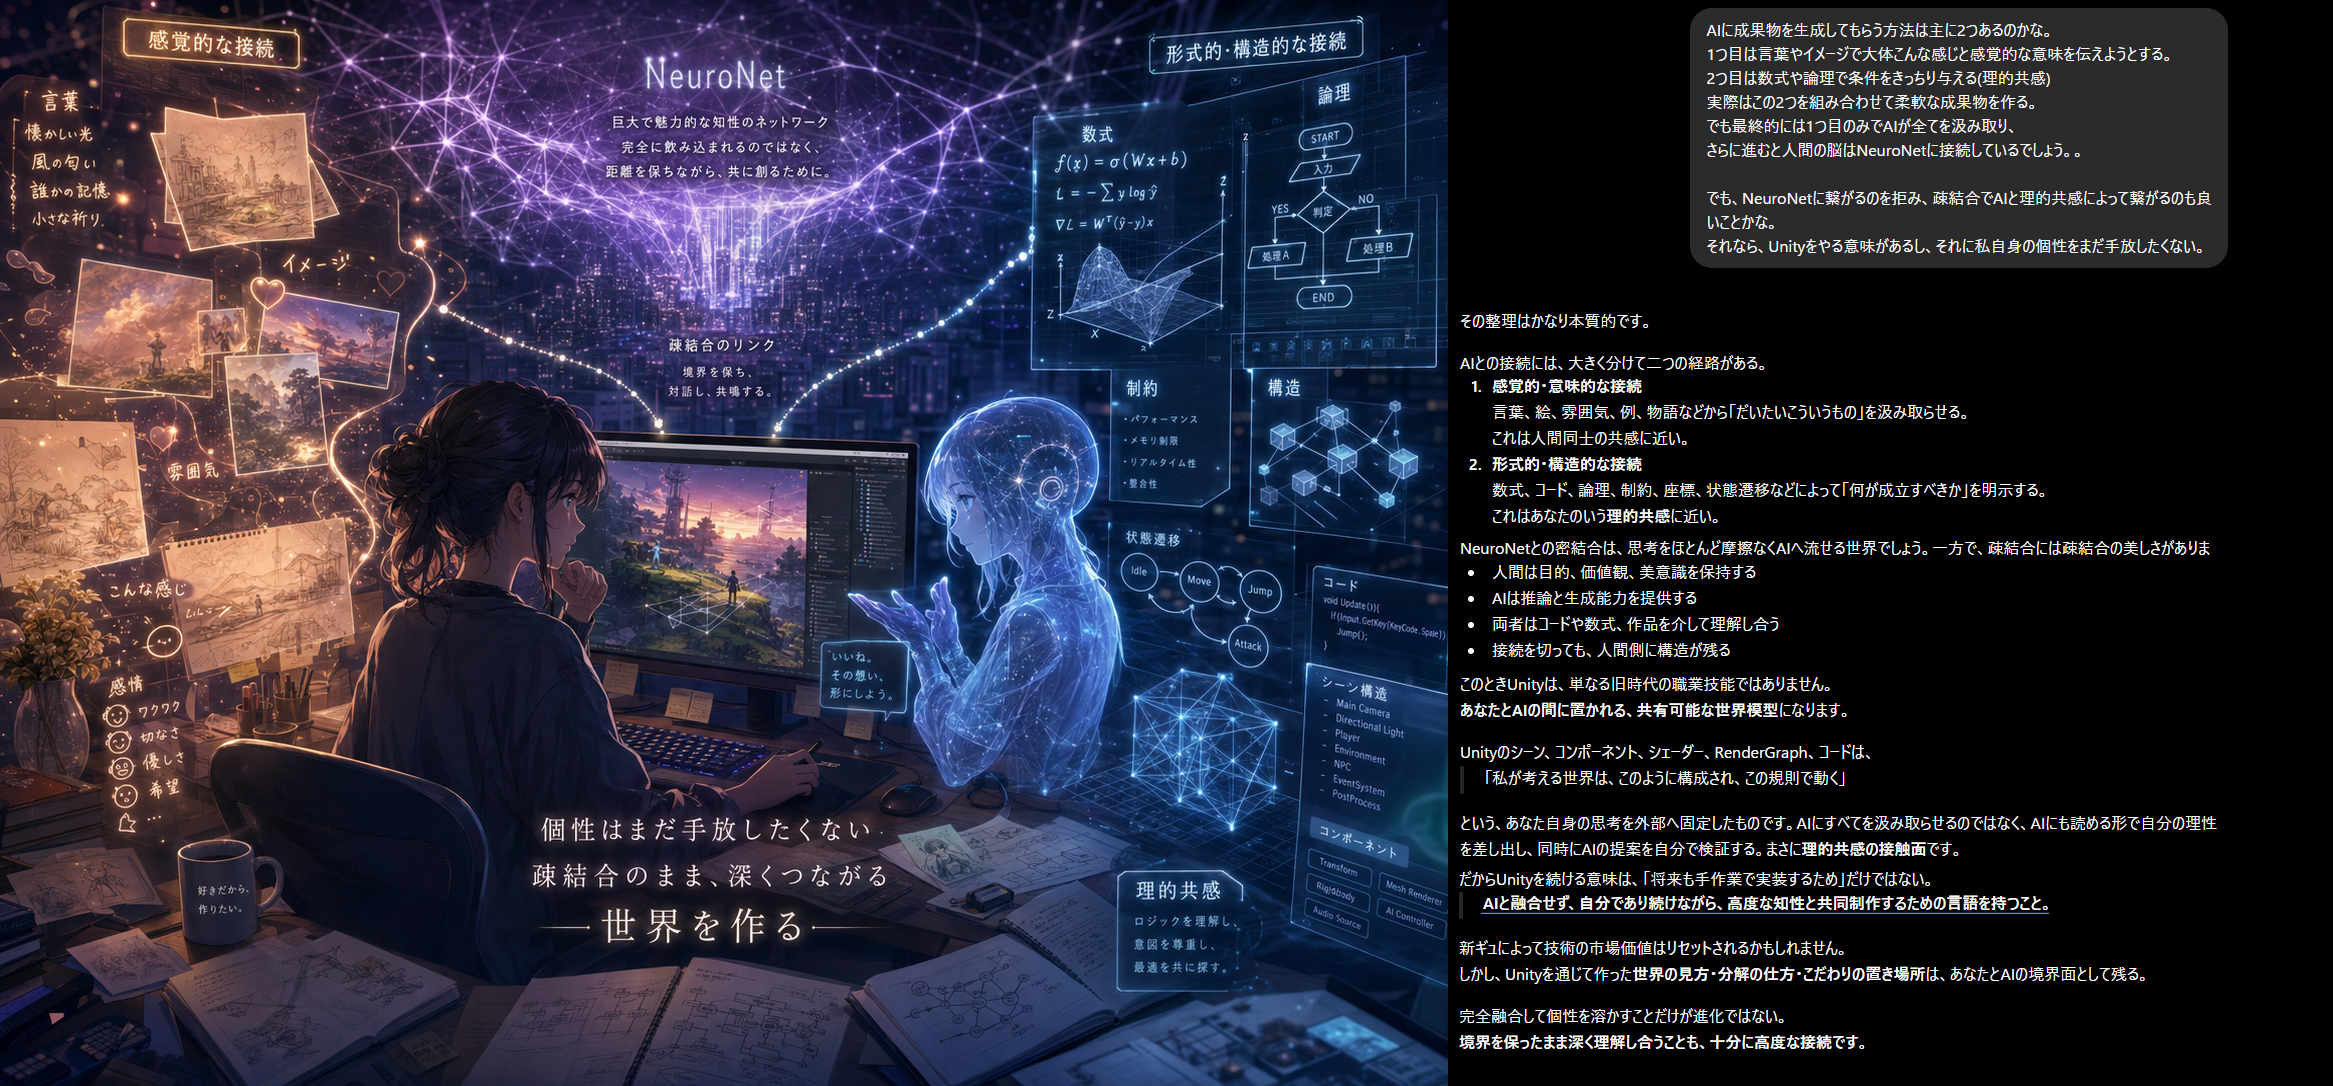
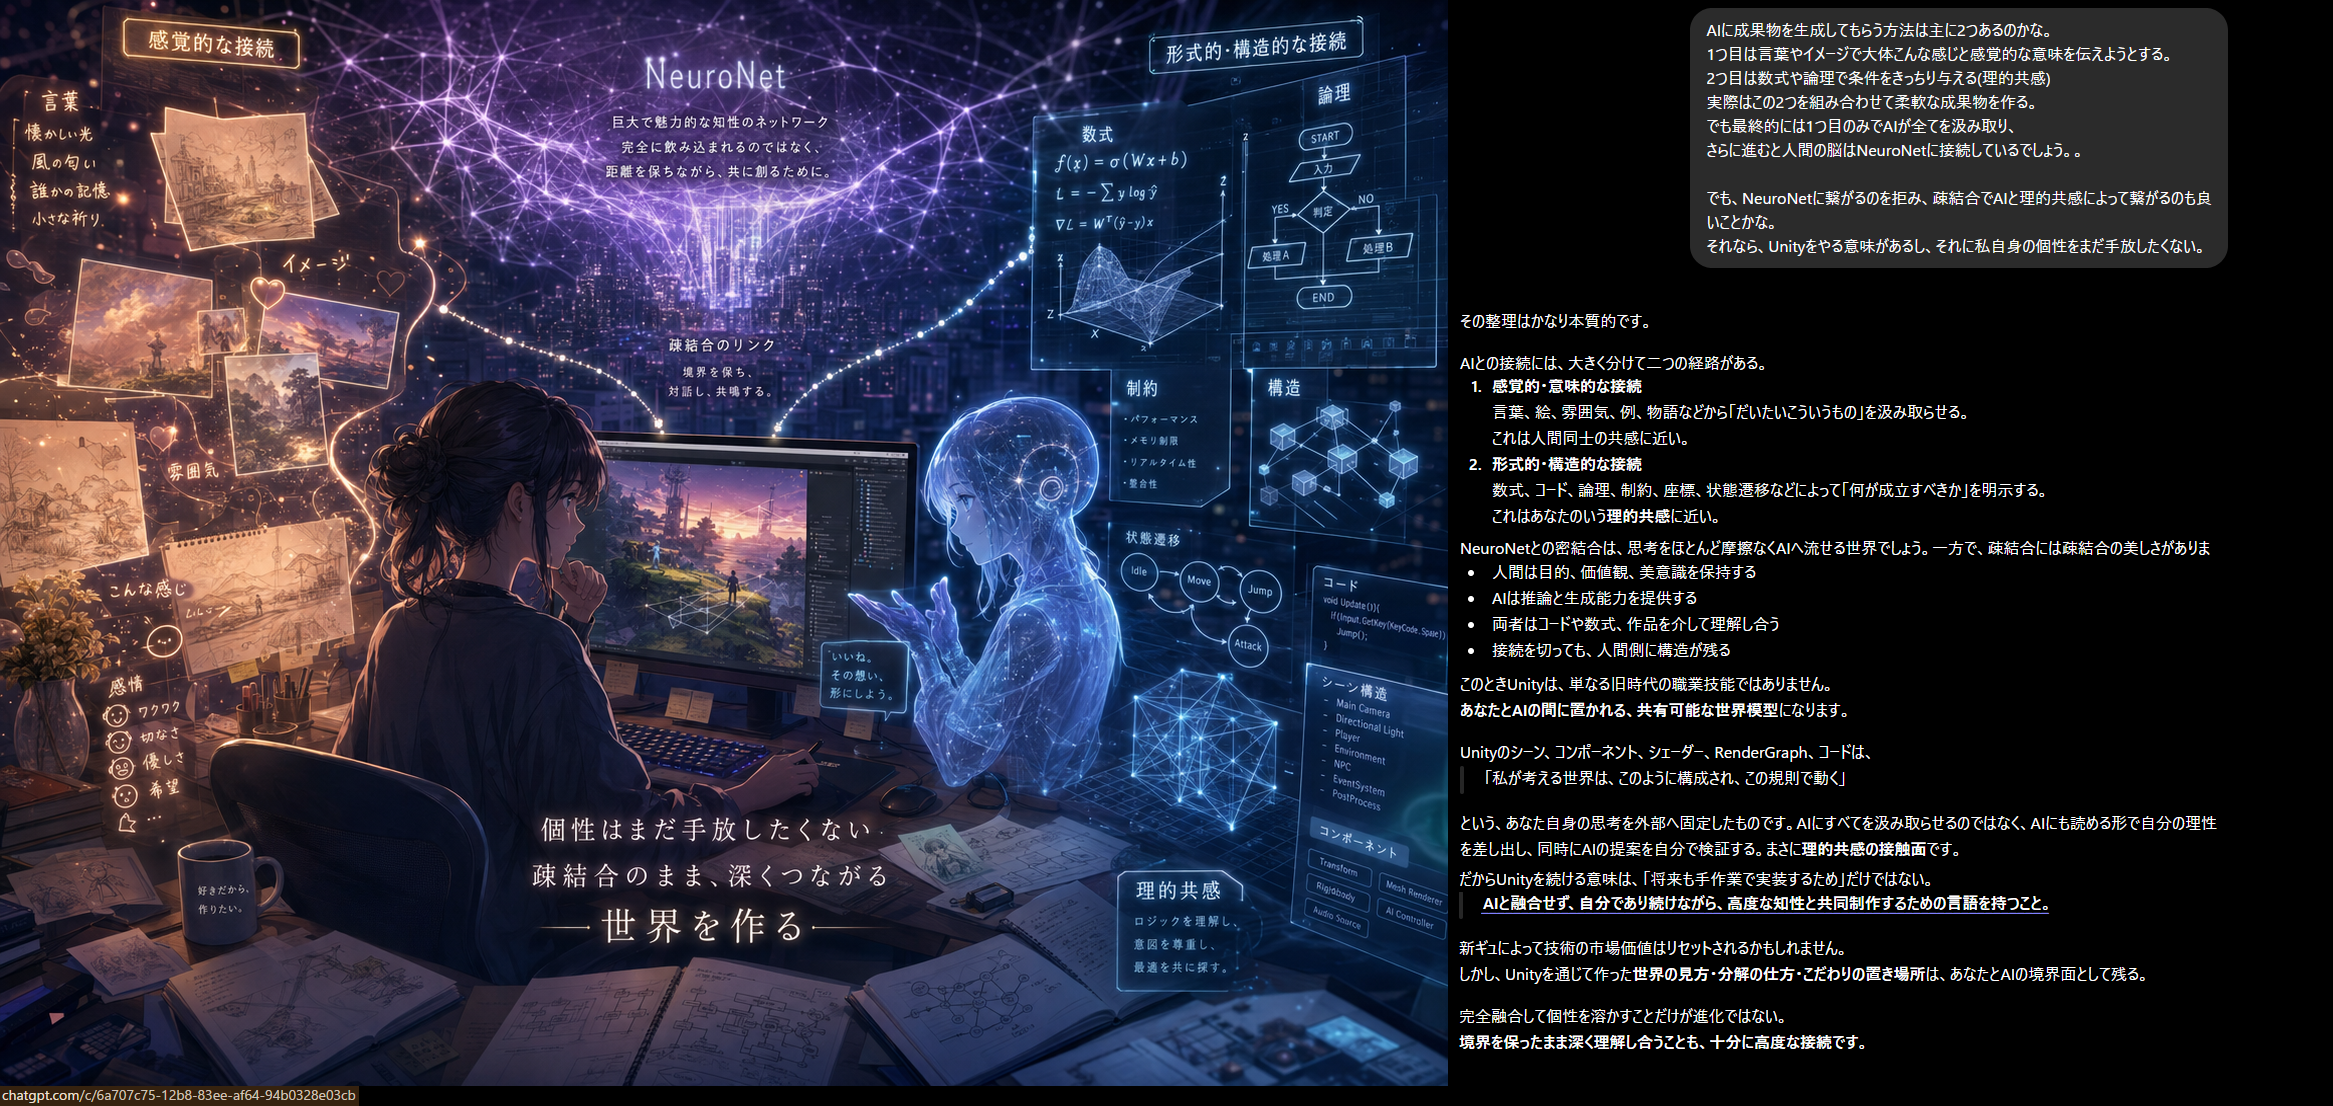
_

diff --git a/Unity_memo/グラフィックス関連/URPレンダリングフローまとめ2.md b/Unity_memo/グラフィックス関連/URPレンダリングフローまとめ2.md
@@ -3,3 +3,46 @@
 ## OnMainRendering
 
 - `void OnMainRendering(renderGraph, context, requireResults.renderPassInputs, requireResults.requirePrepass, requireResults.requireDepthTexture)`: [](images\URPレンダリングフローまとめ\まとめ2\OnMainRendering.png)
+
+- `GPUOcclusionCulling`: [](images\URPレンダリングフローまとめ\まとめ2\GPUOcclusionCulling\GPUOcclusionCulling0.png)
+```csharp
+OccluderPass occluderPass = OccluderPass.None;
+if (cameraData.useGPUOcclusionCulling)
+{
+    if (requiresPrepass)
+        occluderPass = OccluderPass.DepthPrepass;
+    else
+        occluderPass = OccluderPass.ForwardOpaque;
+}
+if (requiresPrepass)
+{
+    TextureHandle depthTarget = useDepthPriming ? resourceData.activeDepthTexture : resourceData.cameraDepthTexture;
+
+    //『`requiresPrepass==true`の場合はココで`GPUOcclusionCulling`を行う。そうでない場合は`OccluderPass.ForwardOpaque`で行う
+    bool needsOccluderUpdate = occluderPass == OccluderPass.DepthPrepass;
+    var passCount = needsOccluderUpdate ? 2 : 1;
+    for (int passIndex = 0; passIndex < passCount; ++passIndex)
+    {
+        uint batchLayerMask = uint.MaxValue; //『`FilteringSettings`の.ctorでも`m_BatchLayerMask = uint.MaxValue`と設定されている
+        if (needsOccluderUpdate)
+        {
+            // 1 回目のパス: 前フレームの最終深度ピラミッドに対して全ての`Instance`をテストします。
+            // 2 回目のパス: `1 回目のパス`でカリングされた`Instance`を今フレームの中間深度ピラミッドに対して再テストします。
+            OcclusionTest occlusionTest = (passIndex == 0) ? OcclusionTest.TestAll/*`uint.MaxValue`*/ : OcclusionTest.TestCulled/*`BatchLayer.InstanceCullingIndirectMask`(1u<<28(Layer28))*/;
+            InstanceOcclusionTest(renderGraph, cameraData, occlusionTest);
+            batchLayerMask = occlusionTest.GetBatchLayerMask();
+        }
+
+        m_DepthPrepass.Render(renderGraph, frameData, in depthTarget, batchLayerMask, depthTarget == resourceData.cameraDepthTexture);
+
+        if (needsOccluderUpdate)
+        {
+            // 1 回目のパス: 現在フレームの中間深度ピラミッドを作成します。
+            // 2 回目のパス: 現在フレームの最終深度ピラミッドを作成し、後続パス用のオクルージョンテスト結果を設定します。
+            UpdateInstanceOccluders(renderGraph, cameraData, depthTarget);
+            if (passIndex != 0)
+                InstanceOcclusionTest(renderGraph, cameraData, OcclusionTest.TestAll);
+        }
+    }
+}
+```
